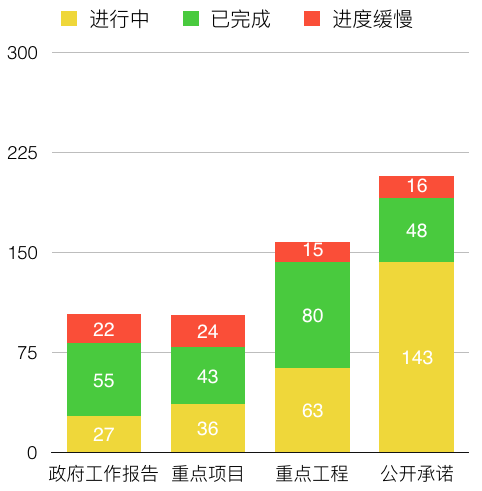
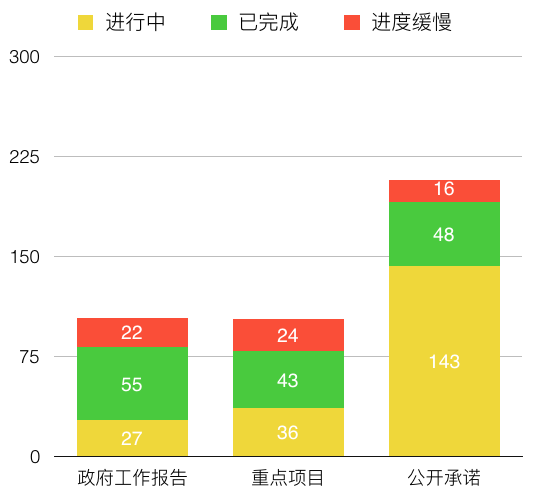
remove one project type.

diff --git a/ZhengFu.js b/ZhengFu.js
@@ -32,7 +32,7 @@ var ZhengFu = React.createClass({
       <View style={styles.container}>
         <ScrollView style={{flex: 1, marginBottom: 55}}>
           <View style={styles.chartBox}>
-            <Text style={styles.title}>2016年安康市委督办项目完成情况</Text>
+            <Text style={styles.title}>2016年安康市政府督办项目完成情况</Text>
             <TouchableOpacity onPress={() => Actions.chart({type2: 'zhengfu'})}>
               {this._loadChart('piechart')}
             </TouchableOpacity>
@@ -55,17 +55,12 @@ var ZhengFu = React.createClass({
             </View>
             <View style={[styles.row, styles.gridRow]}>
               <View style={[styles.item]}>
-                <TouchableOpacity onPress={() => Actions.fenkoulist({title: '重点工程'})}>
-                  <Text style={styles.itemTitle}>重点工程</Text>
-                  <Text style={styles.itemSubTitle}>30个</Text>
-                </TouchableOpacity>
-              </View>
-              <View style={[styles.item]}>
                 <TouchableOpacity onPress={() => Actions.fenkoulist({title: '公开承诺'})}>
                   <Text style={styles.itemTitle}>公开承诺</Text>
                   <Text style={styles.itemSubTitle}>108个</Text>
                 </TouchableOpacity>
               </View>
+              <View style={[styles.item, {backgroundColor: 'white'}]}/>
             </View>
           </View>
 

diff --git a/ShiWei.js b/ShiWei.js
@@ -56,17 +56,12 @@ var ShiWei = React.createClass({
             </View>
             <View style={[styles.row, styles.gridRow]}>
               <View style={[styles.item]}>
-                <TouchableOpacity onPress={() => Actions.fenkoulist({title: '重点工程'})}>
-                  <Text style={styles.itemTitle}>重点工程</Text>
-                  <Text style={styles.itemSubTitle}>40个</Text>
-                </TouchableOpacity>
-              </View>
-              <View style={[styles.item]}>
                 <TouchableOpacity onPress={() => Actions.fenkoulist({title: '公开承诺'})}>
                   <Text style={styles.itemTitle}>公开承诺</Text>
                   <Text style={styles.itemSubTitle}>108个</Text>
                 </TouchableOpacity>
               </View>
+              <View style={[styles.item, {backgroundColor: 'white'}]}/>
             </View>
           </View>
 

diff --git a/ProjectDashboad.js b/ProjectDashboad.js
@@ -35,7 +35,7 @@ var ProjectDashboad = React.createClass({
   render() {
     return (
       <ScrollableTabView style={styles.container}
-        tabBarUnderlineColor={'white'}
+        tabBarUnderlineColor={'#DFDFDF'}
         tabBarActiveTextColor={'white'}
         tabBarTextStyle={{fontSize: 18, marginTop: 5, color: 'white', fontWeight: '500'}}
         renderTabBar={() => <OverrideTabBar/>}>

diff --git a/NewsList.js b/NewsList.js
@@ -16,7 +16,7 @@ var NewsList = React.createClass({
   render() {
     return (
       <ScrollableTabView style={styles.container}
-        tabBarUnderlineColor={'white'}
+        tabBarUnderlineColor={'#DFDFDF'}
         tabBarActiveTextColor={'white'}
         tabBarTextStyle={{fontSize: 18, marginTop: 5, color: 'white', fontWeight: '500'}}
         renderTabBar={() => <OverrideTabBar/>}>

diff --git a/OverrideTabBar.js b/OverrideTabBar.js
@@ -74,6 +74,7 @@ const OverrideTabBar = React.createClass({
     return (
       <View style={[styles.tabs, {backgroundColor: this.props.backgroundColor, }, this.props.style, ]}>
         {this.props.tabs.map((tab, i) => this.renderTabOption(tab, i))}
+        <Animated.View style={[tabUnderlineStyle, { left, }, ]} />
       </View>
     );
   },
